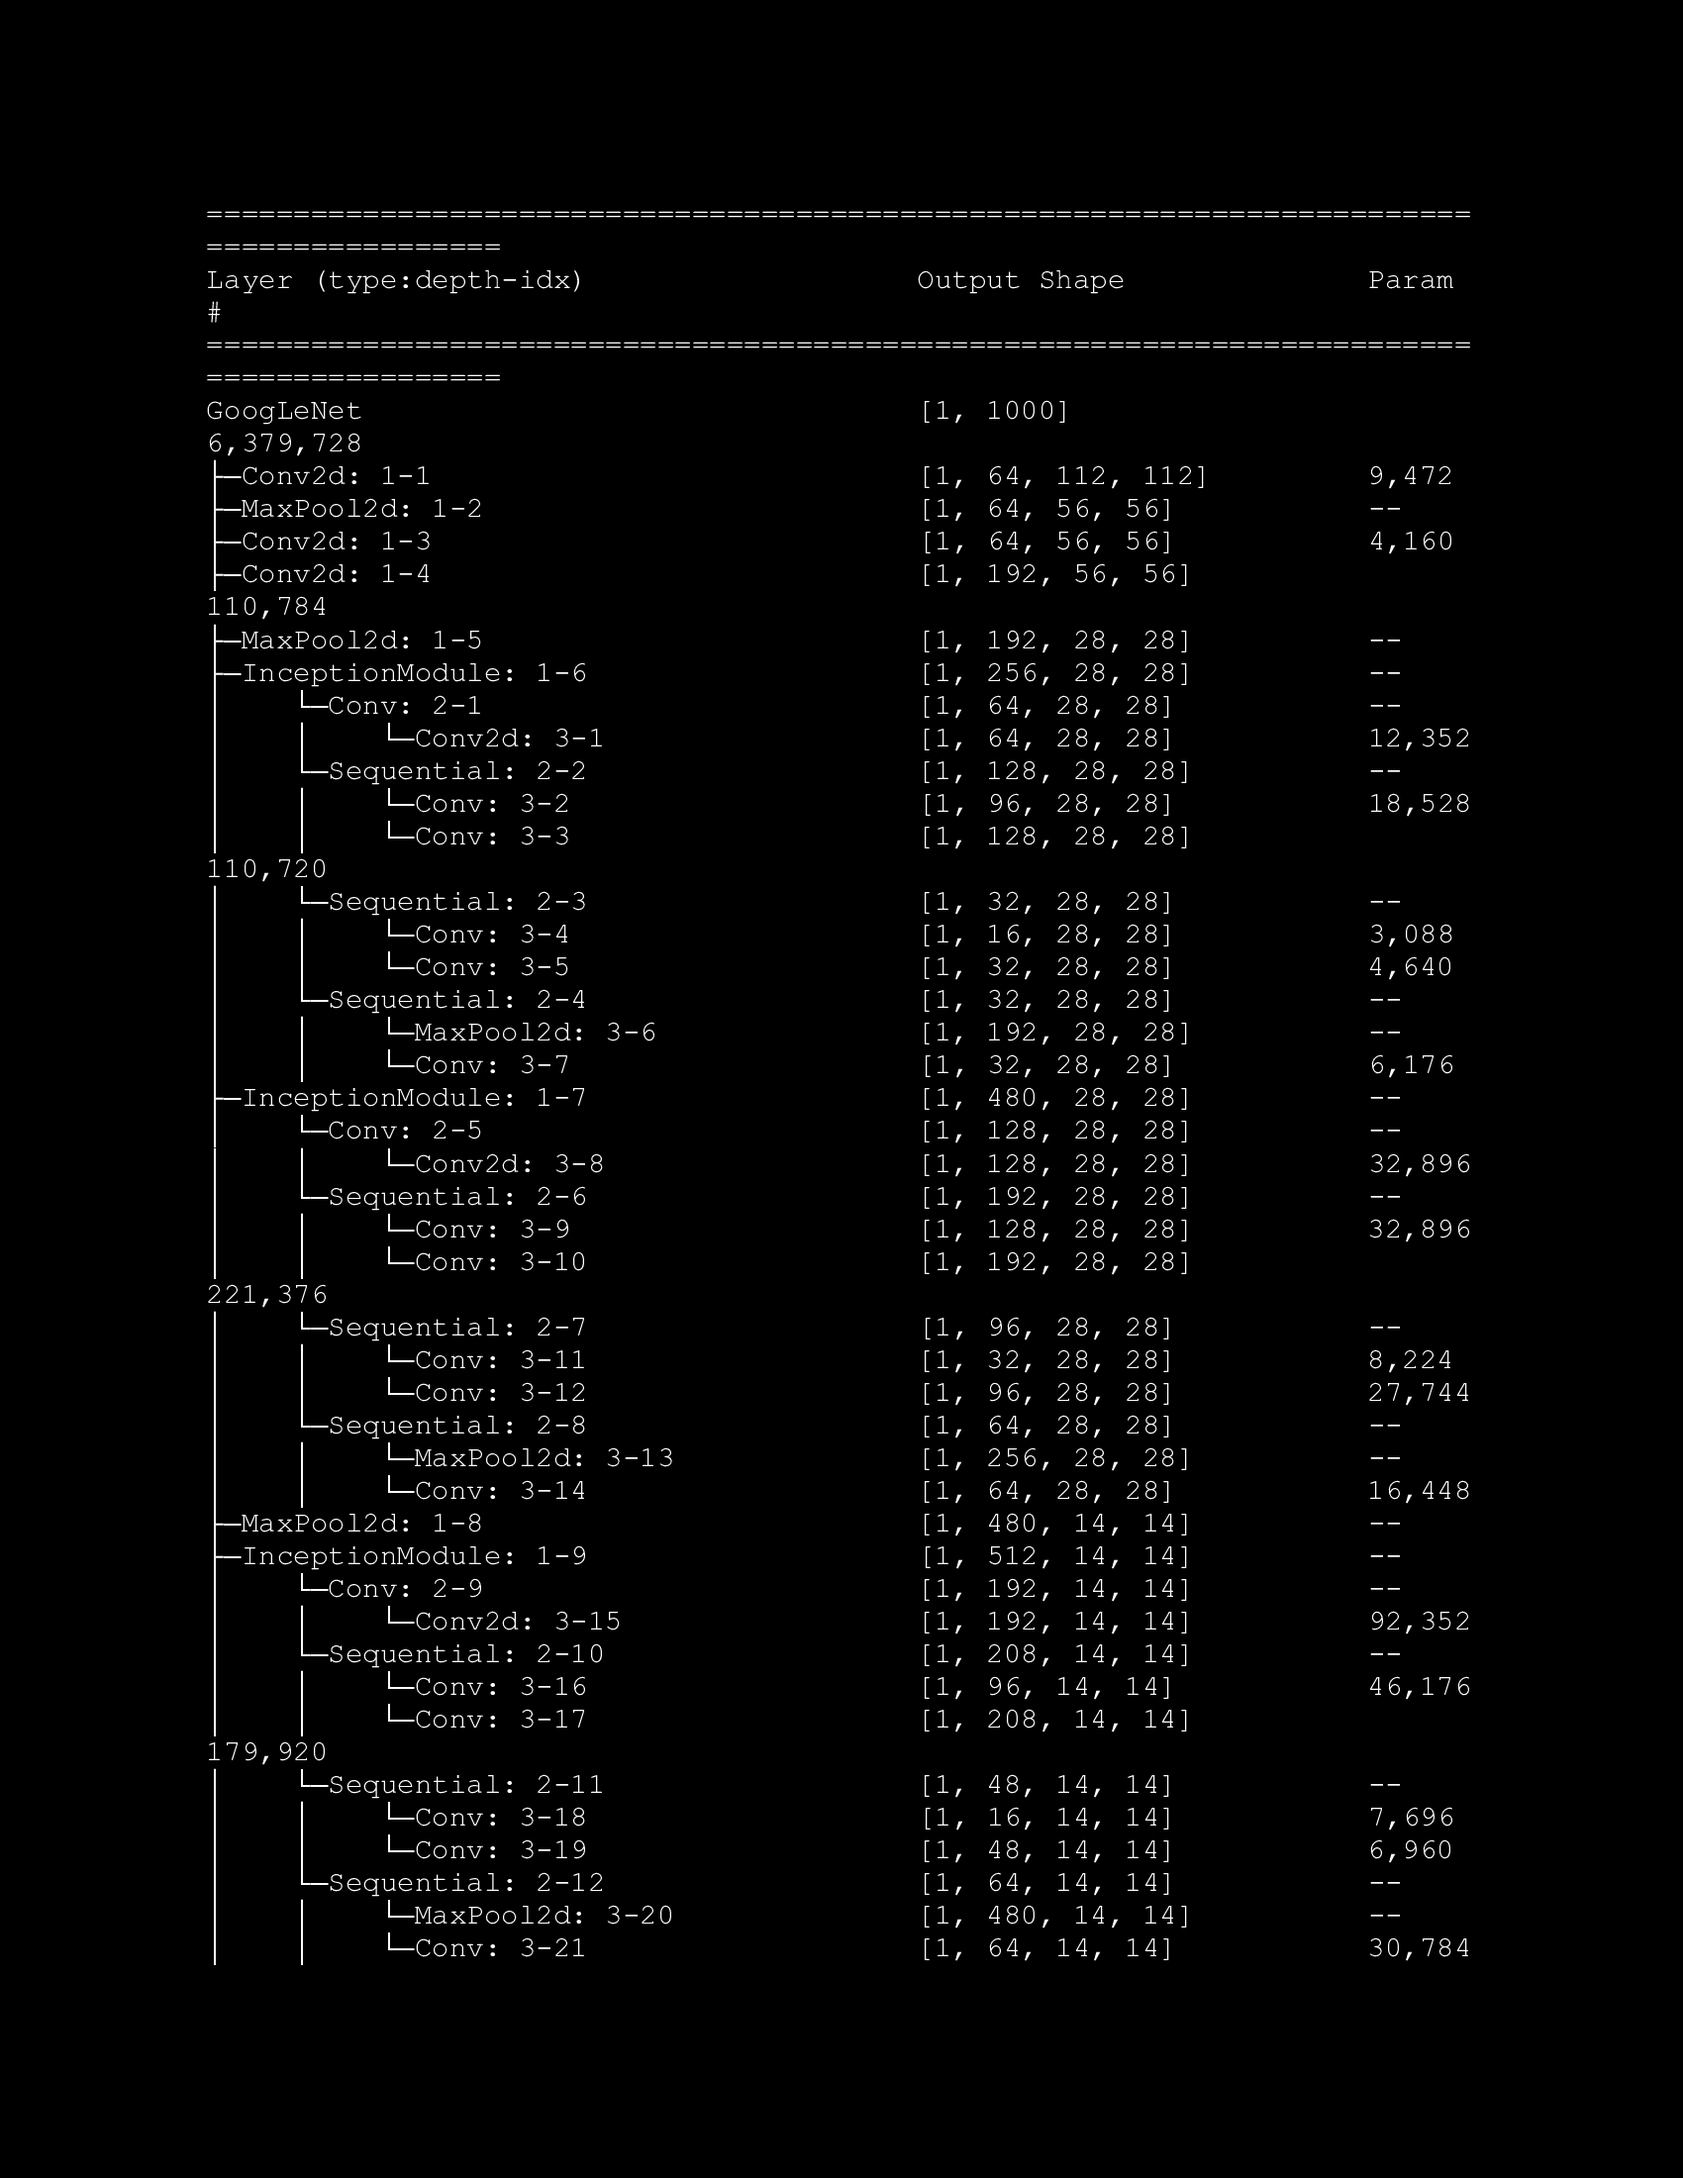
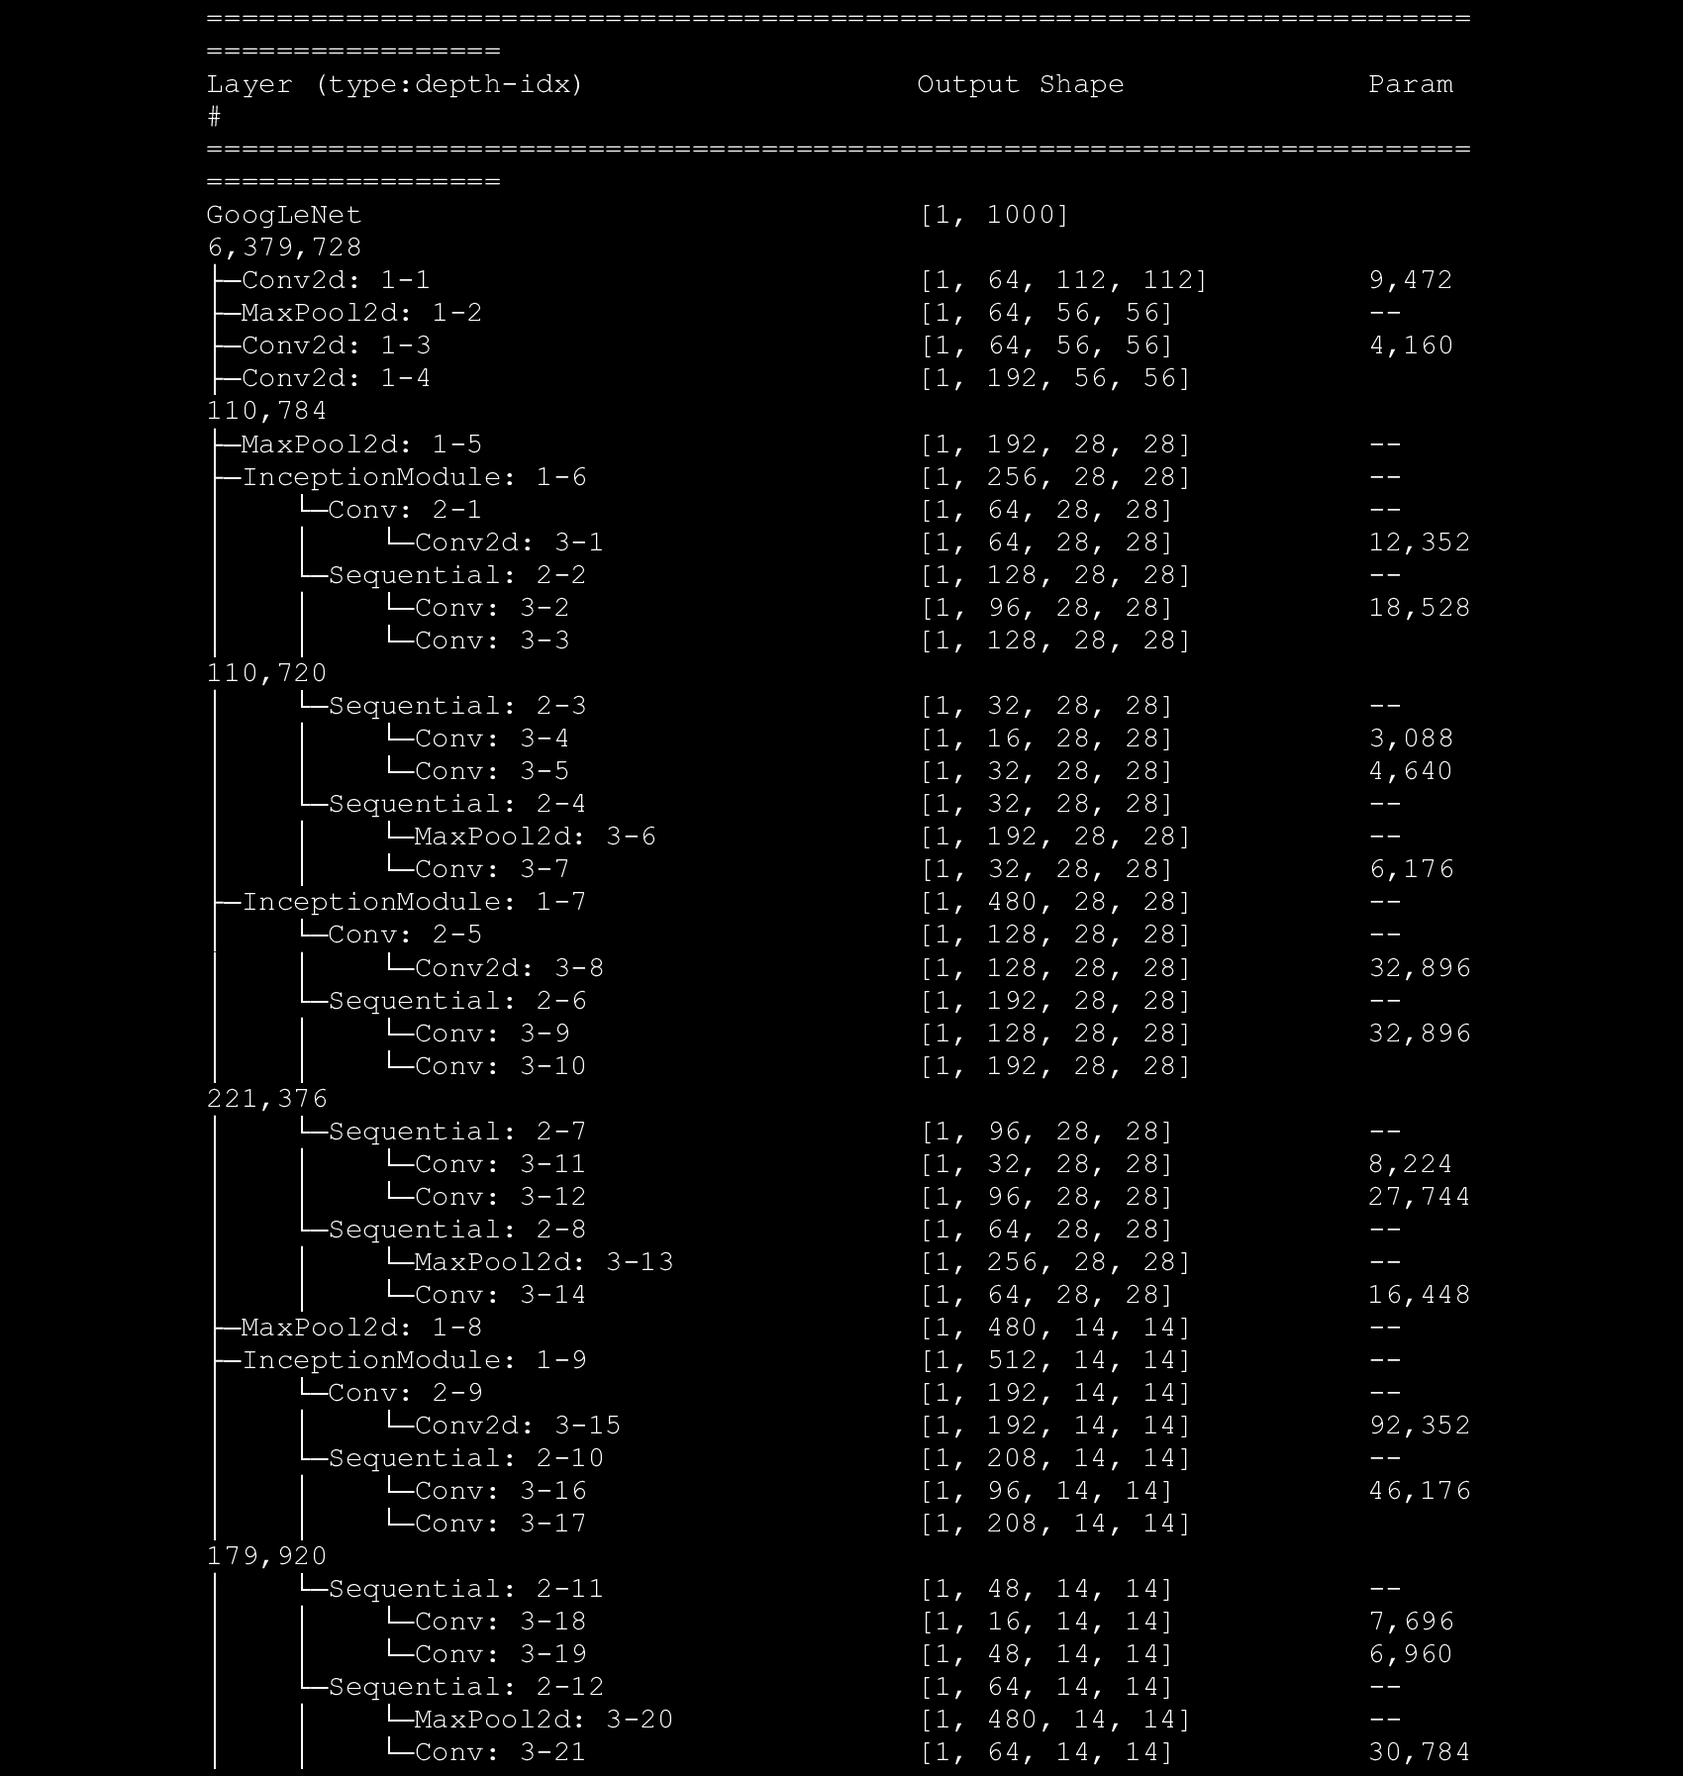
sh to img

diff --git a/README.md b/README.md
@@ -28,141 +28,9 @@ Run script below to checkout the model informations
 python info.py
 ```
 
-```
-==========================================================================================
-Layer (type:depth-idx)                   Output Shape              Param #
-==========================================================================================
-GoogLeNet                                [1, 1000]                 6,379,728
-├─Conv2d: 1-1                            [1, 64, 112, 112]         9,472
-├─MaxPool2d: 1-2                         [1, 64, 56, 56]           --
-├─Conv2d: 1-3                            [1, 64, 56, 56]           4,160
-├─Conv2d: 1-4                            [1, 192, 56, 56]          110,784
-├─MaxPool2d: 1-5                         [1, 192, 28, 28]          --
-├─InceptionModule: 1-6                   [1, 256, 28, 28]          --
-│    └─Conv: 2-1                         [1, 64, 28, 28]           --
-│    │    └─Conv2d: 3-1                  [1, 64, 28, 28]           12,352
-│    └─Sequential: 2-2                   [1, 128, 28, 28]          --
-│    │    └─Conv: 3-2                    [1, 96, 28, 28]           18,528
-│    │    └─Conv: 3-3                    [1, 128, 28, 28]          110,720
-│    └─Sequential: 2-3                   [1, 32, 28, 28]           --
-│    │    └─Conv: 3-4                    [1, 16, 28, 28]           3,088
-│    │    └─Conv: 3-5                    [1, 32, 28, 28]           4,640
-│    └─Sequential: 2-4                   [1, 32, 28, 28]           --
-│    │    └─MaxPool2d: 3-6               [1, 192, 28, 28]          --
-│    │    └─Conv: 3-7                    [1, 32, 28, 28]           6,176
-├─InceptionModule: 1-7                   [1, 480, 28, 28]          --
-│    └─Conv: 2-5                         [1, 128, 28, 28]          --
-│    │    └─Conv2d: 3-8                  [1, 128, 28, 28]          32,896
-│    └─Sequential: 2-6                   [1, 192, 28, 28]          --
-│    │    └─Conv: 3-9                    [1, 128, 28, 28]          32,896
-│    │    └─Conv: 3-10                   [1, 192, 28, 28]          221,376
-│    └─Sequential: 2-7                   [1, 96, 28, 28]           --
-│    │    └─Conv: 3-11                   [1, 32, 28, 28]           8,224
-│    │    └─Conv: 3-12                   [1, 96, 28, 28]           27,744
-│    └─Sequential: 2-8                   [1, 64, 28, 28]           --
-│    │    └─MaxPool2d: 3-13              [1, 256, 28, 28]          --
-│    │    └─Conv: 3-14                   [1, 64, 28, 28]           16,448
-├─MaxPool2d: 1-8                         [1, 480, 14, 14]          --
-├─InceptionModule: 1-9                   [1, 512, 14, 14]          --
-│    └─Conv: 2-9                         [1, 192, 14, 14]          --
-│    │    └─Conv2d: 3-15                 [1, 192, 14, 14]          92,352
-│    └─Sequential: 2-10                  [1, 208, 14, 14]          --
-│    │    └─Conv: 3-16                   [1, 96, 14, 14]           46,176
-│    │    └─Conv: 3-17                   [1, 208, 14, 14]          179,920
-│    └─Sequential: 2-11                  [1, 48, 14, 14]           --
-│    │    └─Conv: 3-18                   [1, 16, 14, 14]           7,696
-│    │    └─Conv: 3-19                   [1, 48, 14, 14]           6,960
-│    └─Sequential: 2-12                  [1, 64, 14, 14]           --
-│    │    └─MaxPool2d: 3-20              [1, 480, 14, 14]          --
-│    │    └─Conv: 3-21                   [1, 64, 14, 14]           30,784
-├─InceptionModule: 1-10                  [1, 512, 14, 14]          --
-│    └─Conv: 2-13                        [1, 160, 14, 14]          --
-│    │    └─Conv2d: 3-22                 [1, 160, 14, 14]          82,080
-│    └─Sequential: 2-14                  [1, 224, 14, 14]          --
-│    │    └─Conv: 3-23                   [1, 112, 14, 14]          57,456
-│    │    └─Conv: 3-24                   [1, 224, 14, 14]          226,016
-│    └─Sequential: 2-15                  [1, 64, 14, 14]           --
-│    │    └─Conv: 3-25                   [1, 24, 14, 14]           12,312
-│    │    └─Conv: 3-26                   [1, 64, 14, 14]           13,888
-│    └─Sequential: 2-16                  [1, 64, 14, 14]           --
-│    │    └─MaxPool2d: 3-27              [1, 512, 14, 14]          --
-│    │    └─Conv: 3-28                   [1, 64, 14, 14]           32,832
-├─InceptionModule: 1-11                  [1, 512, 14, 14]          --
-│    └─Conv: 2-17                        [1, 128, 14, 14]          --
-│    │    └─Conv2d: 3-29                 [1, 128, 14, 14]          65,664
-│    └─Sequential: 2-18                  [1, 256, 14, 14]          --
-│    │    └─Conv: 3-30                   [1, 128, 14, 14]          65,664
-│    │    └─Conv: 3-31                   [1, 256, 14, 14]          295,168
-│    └─Sequential: 2-19                  [1, 64, 14, 14]           --
-│    │    └─Conv: 3-32                   [1, 24, 14, 14]           12,312
-│    │    └─Conv: 3-33                   [1, 64, 14, 14]           13,888
-│    └─Sequential: 2-20                  [1, 64, 14, 14]           --
-│    │    └─MaxPool2d: 3-34              [1, 512, 14, 14]          --
-│    │    └─Conv: 3-35                   [1, 64, 14, 14]           32,832
-├─InceptionModule: 1-12                  [1, 528, 14, 14]          --
-│    └─Conv: 2-21                        [1, 112, 14, 14]          --
-│    │    └─Conv2d: 3-36                 [1, 112, 14, 14]          57,456
-│    └─Sequential: 2-22                  [1, 288, 14, 14]          --
-│    │    └─Conv: 3-37                   [1, 144, 14, 14]          73,872
-│    │    └─Conv: 3-38                   [1, 288, 14, 14]          373,536
-│    └─Sequential: 2-23                  [1, 64, 14, 14]           --
-│    │    └─Conv: 3-39                   [1, 32, 14, 14]           16,416
-│    │    └─Conv: 3-40                   [1, 64, 14, 14]           18,496
-│    └─Sequential: 2-24                  [1, 64, 14, 14]           --
-│    │    └─MaxPool2d: 3-41              [1, 512, 14, 14]          --
-│    │    └─Conv: 3-42                   [1, 64, 14, 14]           32,832
-├─InceptionModule: 1-13                  [1, 832, 14, 14]          --
-│    └─Conv: 2-25                        [1, 256, 14, 14]          --
-│    │    └─Conv2d: 3-43                 [1, 256, 14, 14]          135,424
-│    └─Sequential: 2-26                  [1, 320, 14, 14]          --
-│    │    └─Conv: 3-44                   [1, 160, 14, 14]          84,640
-│    │    └─Conv: 3-45                   [1, 320, 14, 14]          461,120
-│    └─Sequential: 2-27                  [1, 128, 14, 14]          --
-│    │    └─Conv: 3-46                   [1, 32, 14, 14]           16,928
-│    │    └─Conv: 3-47                   [1, 128, 14, 14]          36,992
-│    └─Sequential: 2-28                  [1, 128, 14, 14]          --
-│    │    └─MaxPool2d: 3-48              [1, 528, 14, 14]          --
-│    │    └─Conv: 3-49                   [1, 128, 14, 14]          67,712
-├─MaxPool2d: 1-14                        [1, 832, 7, 7]            --
-├─InceptionModule: 1-15                  [1, 832, 7, 7]            --
-│    └─Conv: 2-29                        [1, 256, 7, 7]            --
-│    │    └─Conv2d: 3-50                 [1, 256, 7, 7]            213,248
-│    └─Sequential: 2-30                  [1, 320, 7, 7]            --
-│    │    └─Conv: 3-51                   [1, 160, 7, 7]            133,280
-│    │    └─Conv: 3-52                   [1, 320, 7, 7]            461,120
-│    └─Sequential: 2-31                  [1, 128, 7, 7]            --
-│    │    └─Conv: 3-53                   [1, 32, 7, 7]             26,656
-│    │    └─Conv: 3-54                   [1, 128, 7, 7]            36,992
-│    └─Sequential: 2-32                  [1, 128, 7, 7]            --
-│    │    └─MaxPool2d: 3-55              [1, 832, 7, 7]            --
-│    │    └─Conv: 3-56                   [1, 128, 7, 7]            106,624
-├─InceptionModule: 1-16                  [1, 1024, 7, 7]           --
-│    └─Conv: 2-33                        [1, 384, 7, 7]            --
-│    │    └─Conv2d: 3-57                 [1, 384, 7, 7]            319,872
-│    └─Sequential: 2-34                  [1, 384, 7, 7]            --
-│    │    └─Conv: 3-58                   [1, 192, 7, 7]            159,936
-│    │    └─Conv: 3-59                   [1, 384, 7, 7]            663,936
-│    └─Sequential: 2-35                  [1, 128, 7, 7]            --
-│    │    └─Conv: 3-60                   [1, 48, 7, 7]             39,984
-│    │    └─Conv: 3-61                   [1, 128, 7, 7]            55,424
-│    └─Sequential: 2-36                  [1, 128, 7, 7]            --
-│    │    └─MaxPool2d: 3-62              [1, 832, 7, 7]            --
-│    │    └─Conv: 3-63                   [1, 128, 7, 7]            106,624
-├─AvgPool2d: 1-17                        [1, 1024, 1, 1]           --
-├─Dropout: 1-18                          [1, 1024, 1, 1]           --
-├─Linear: 1-19                           [1, 1000]                 1,025,000
-==========================================================================================
-Total params: 12,997,352
-Trainable params: 12,997,352
-Non-trainable params: 0
-Total mult-adds (G): 1.50
-==========================================================================================
-Input size (MB): 0.60
-Forward/backward pass size (MB): 25.82
-Params size (MB): 26.47
-Estimated Total Size (MB): 52.89
-==========================================================================================
-```
+<img src="images/info1.png" alt="GoogLeNet Network" style="width:100%;">
+<img src="images/info2.png" alt="GoogLeNet Network" style="width:100%;">
+<img src="images/info3.png" alt="GoogLeNet Network" style="width:100%;">
 
 ## Usage
 
